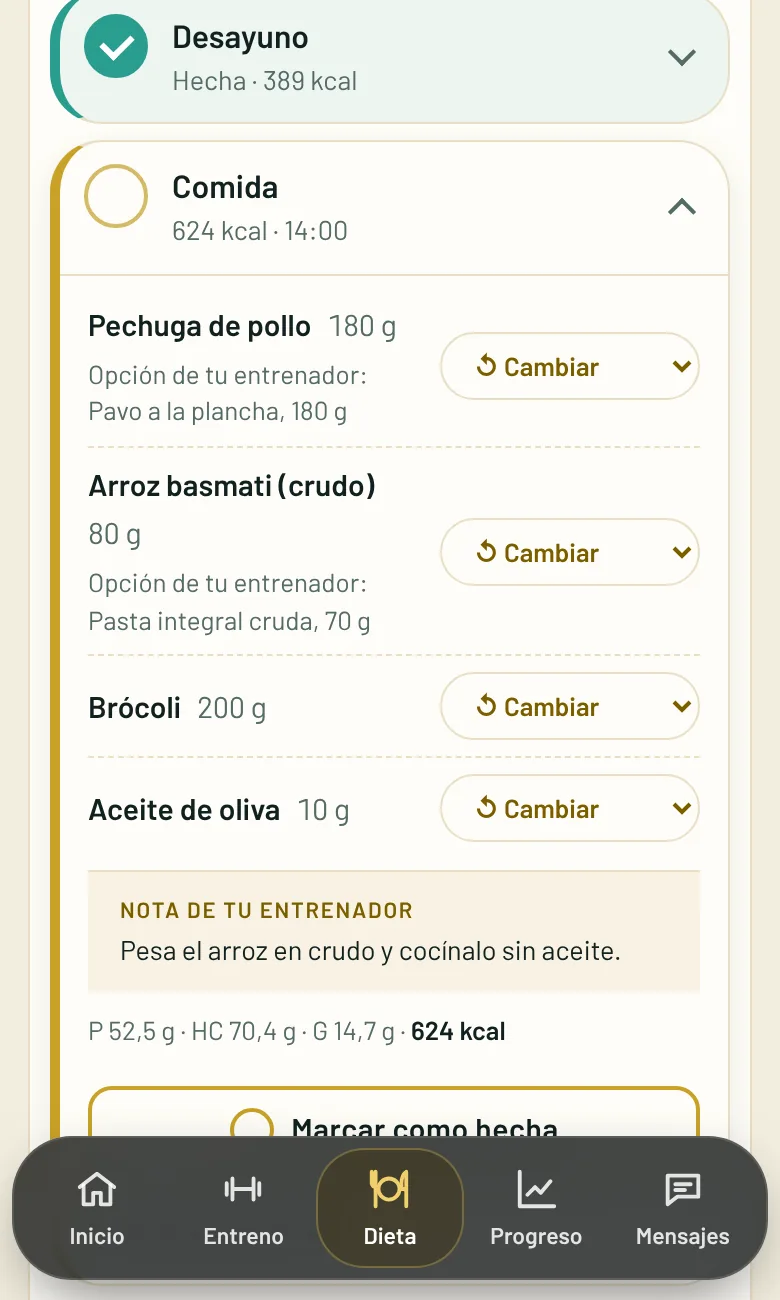
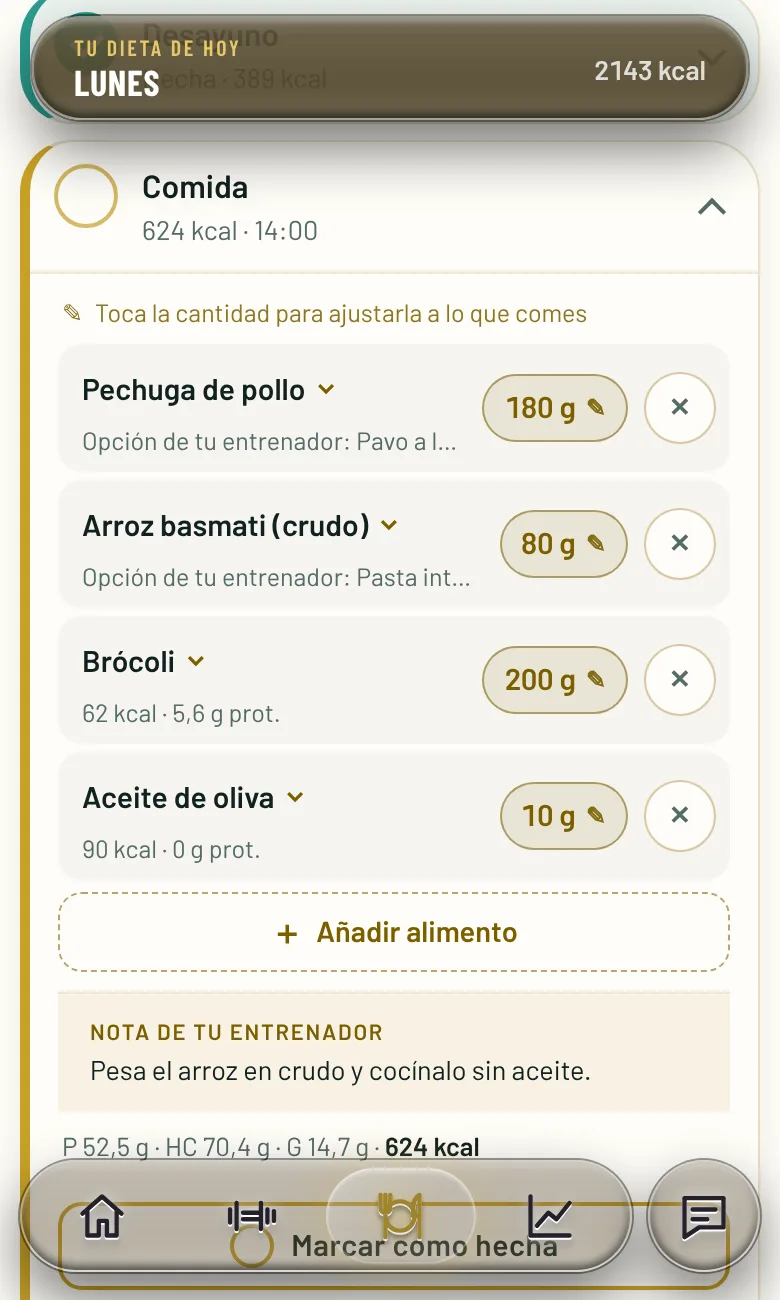
Web: capturas de la app con el aspecto actual (pantalla completa, isla nueva)

diff --git a/index.html b/index.html
@@ -417,9 +417,9 @@ html.intro, html.intro body { overflow: hidden; }
       </div>
       <div>
       <div class="phones rv" aria-label="Capturas de la app Team Biscuit">
-        <div class="phone"><img src="img/app-home.webp?v=5" alt="Pantalla de inicio de la app (cliente de ejemplo)" width="390" height="650"></div>
-        <div class="phone"><img src="img/app-ent.webp?v=5" alt="Pantalla de entrenamiento" width="390" height="650"></div>
-        <div class="phone"><img src="img/app-diet.webp?v=5" alt="Pantalla de dieta" width="390" height="650"></div>
+        <div class="phone"><img src="img/app-home.webp?v=6" alt="Pantalla de inicio de la app (cliente de ejemplo)" width="390" height="650"></div>
+        <div class="phone"><img src="img/app-ent.webp?v=6" alt="Pantalla de entrenamiento" width="390" height="650"></div>
+        <div class="phone"><img src="img/app-diet.webp?v=6" alt="Pantalla de dieta" width="390" height="650"></div>
       </div>
       <p class="swipe-hint" aria-hidden="true">Desliza para ver más →</p>
       </div>
@@ -431,12 +431,12 @@ html.intro, html.intro body { overflow: hidden; }
       </div>
       <div class="rv">
         <div class="shots" aria-label="Más capturas de la app">
-          <figure class="shot"><div class="phone"><img src="img/app-nivel.webp?v=5" alt="Mis recompensas de una clienta de ejemplo" width="390" height="650" loading="lazy"></div><figcaption><b>Mis recompensas</b>: tu nivel y las taquillas que abres entrenando.</figcaption></figure>
-          <figure class="shot"><div class="phone"><img src="img/app-logros.webp?v=5" alt="Vitrina de logros" width="390" height="650" loading="lazy"></div><figcaption><b>Logros y medallas</b> por constancia, fuerza y carrera.</figcaption></figure>
-          <figure class="shot"><div class="phone"><img src="img/app-medalla.webp?v=5" alt="Medalla de 5 km" width="390" height="650" loading="lazy"></div><figcaption><b>Cada medalla</b> con su propia escena.</figcaption></figure>
-          <figure class="shot"><div class="phone"><img src="img/app-semana.webp?v=5" alt="Tarjeta «Mi semana»" width="390" height="650" loading="lazy"></div><figcaption><b>Mi semana</b> en una tarjeta para compartir.</figcaption></figure>
-          <figure class="shot"><div class="phone"><img src="img/app-temporizador.webp?v=5" alt="Temporizador de descanso" width="390" height="650" loading="lazy"></div><figcaption><b>Descanso cronometrado</b>, con tu siguiente serie.</figcaption></figure>
-          <figure class="shot"><div class="phone"><img src="img/app-molestias.webp?v=5" alt="Mapa de molestias" width="390" height="650" loading="lazy"></div><figcaption><b>Molestias</b>: marcas la zona y lo veo al momento.</figcaption></figure>
+          <figure class="shot"><div class="phone"><img src="img/app-nivel.webp?v=6" alt="Mis recompensas de una clienta de ejemplo" width="390" height="650" loading="lazy"></div><figcaption><b>Mis recompensas</b>: tu nivel y las taquillas que abres entrenando.</figcaption></figure>
+          <figure class="shot"><div class="phone"><img src="img/app-logros.webp?v=6" alt="Vitrina de logros" width="390" height="650" loading="lazy"></div><figcaption><b>Logros y medallas</b> por constancia, fuerza y carrera.</figcaption></figure>
+          <figure class="shot"><div class="phone"><img src="img/app-medalla.webp?v=6" alt="Medalla de 5 km" width="390" height="650" loading="lazy"></div><figcaption><b>Cada medalla</b> con su propia escena.</figcaption></figure>
+          <figure class="shot"><div class="phone"><img src="img/app-semana.webp?v=6" alt="Tarjeta «Mi semana»" width="390" height="650" loading="lazy"></div><figcaption><b>Mi semana</b> en una tarjeta para compartir.</figcaption></figure>
+          <figure class="shot"><div class="phone"><img src="img/app-temporizador.webp?v=6" alt="Temporizador de descanso" width="390" height="650" loading="lazy"></div><figcaption><b>Descanso cronometrado</b>, con tu siguiente serie.</figcaption></figure>
+          <figure class="shot"><div class="phone"><img src="img/app-molestias.webp?v=6" alt="Mapa de molestias" width="390" height="650" loading="lazy"></div><figcaption><b>Molestias</b>: marcas la zona y lo veo al momento.</figcaption></figure>
         </div>
         <p class="swipe-hint" aria-hidden="true">Desliza para ver más →</p>
       </div>

diff --git a/en/index.html b/en/index.html
@@ -418,9 +418,9 @@ html.intro, html.intro body { overflow: hidden; }
       </div>
       <div>
       <div class="phones rv" aria-label="Team Biscuit app screenshots">
-        <div class="phone"><img src="../img/app-home.webp?v=5" alt="App home screen (sample client)" width="390" height="650"></div>
-        <div class="phone"><img src="../img/app-ent.webp?v=5" alt="Training screen" width="390" height="650"></div>
-        <div class="phone"><img src="../img/app-diet.webp?v=5" alt="Diet screen" width="390" height="650"></div>
+        <div class="phone"><img src="../img/app-home.webp?v=6" alt="App home screen (sample client)" width="390" height="650"></div>
+        <div class="phone"><img src="../img/app-ent.webp?v=6" alt="Training screen" width="390" height="650"></div>
+        <div class="phone"><img src="../img/app-diet.webp?v=6" alt="Diet screen" width="390" height="650"></div>
       </div>
       <p class="swipe-hint" aria-hidden="true">Swipe to see more →</p>
       </div>
@@ -432,12 +432,12 @@ html.intro, html.intro body { overflow: hidden; }
       </div>
       <div class="rv">
         <div class="shots" aria-label="More app screenshots">
-          <figure class="shot"><div class="phone"><img src="../img/app-nivel.webp?v=5" alt="Rewards screen of a sample client" width="390" height="650" loading="lazy"></div><figcaption><b>My rewards</b>: your level and the lockers you unlock by training.</figcaption></figure>
-          <figure class="shot"><div class="phone"><img src="../img/app-logros.webp?v=5" alt="Achievements showcase" width="390" height="650" loading="lazy"></div><figcaption><b>Achievements and medals</b> for consistency, strength and running.</figcaption></figure>
-          <figure class="shot"><div class="phone"><img src="../img/app-medalla.webp?v=5" alt="5K medal" width="390" height="650" loading="lazy"></div><figcaption><b>Every medal</b> with its own scene.</figcaption></figure>
-          <figure class="shot"><div class="phone"><img src="../img/app-semana.webp?v=5" alt="“My week” card" width="390" height="650" loading="lazy"></div><figcaption><b>My week</b> on a card to share.</figcaption></figure>
-          <figure class="shot"><div class="phone"><img src="../img/app-temporizador.webp?v=5" alt="Rest timer" width="390" height="650" loading="lazy"></div><figcaption><b>Timed rest</b>, showing your next set.</figcaption></figure>
-          <figure class="shot"><div class="phone"><img src="../img/app-molestias.webp?v=5" alt="Aches and pains map" width="390" height="650" loading="lazy"></div><figcaption><b>Aches and pains</b>: mark the spot and I see it right away.</figcaption></figure>
+          <figure class="shot"><div class="phone"><img src="../img/app-nivel.webp?v=6" alt="Rewards screen of a sample client" width="390" height="650" loading="lazy"></div><figcaption><b>My rewards</b>: your level and the lockers you unlock by training.</figcaption></figure>
+          <figure class="shot"><div class="phone"><img src="../img/app-logros.webp?v=6" alt="Achievements showcase" width="390" height="650" loading="lazy"></div><figcaption><b>Achievements and medals</b> for consistency, strength and running.</figcaption></figure>
+          <figure class="shot"><div class="phone"><img src="../img/app-medalla.webp?v=6" alt="5K medal" width="390" height="650" loading="lazy"></div><figcaption><b>Every medal</b> with its own scene.</figcaption></figure>
+          <figure class="shot"><div class="phone"><img src="../img/app-semana.webp?v=6" alt="“My week” card" width="390" height="650" loading="lazy"></div><figcaption><b>My week</b> on a card to share.</figcaption></figure>
+          <figure class="shot"><div class="phone"><img src="../img/app-temporizador.webp?v=6" alt="Rest timer" width="390" height="650" loading="lazy"></div><figcaption><b>Timed rest</b>, showing your next set.</figcaption></figure>
+          <figure class="shot"><div class="phone"><img src="../img/app-molestias.webp?v=6" alt="Aches and pains map" width="390" height="650" loading="lazy"></div><figcaption><b>Aches and pains</b>: mark the spot and I see it right away.</figcaption></figure>
         </div>
         <p class="swipe-hint" aria-hidden="true">Swipe to see more →</p>
       </div>
